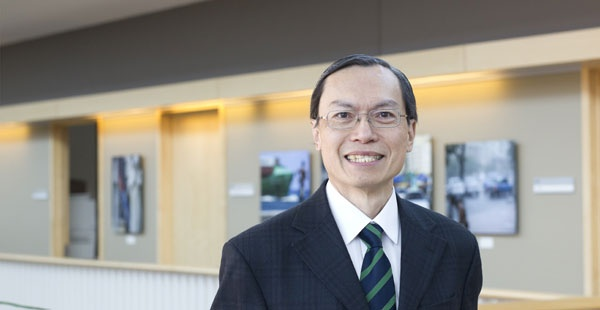
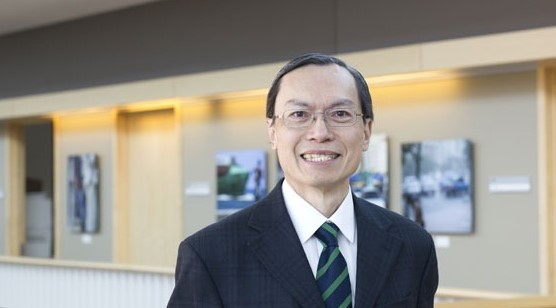
resizing

diff --git a/content/infoPages/our-members.md b/content/infoPages/our-members.md
@@ -2,7 +2,7 @@
 template: DefaultPage
 slug: our-members
 title: Our members
-featuredImage: ../../static/images/our-members-banner.jpg
+featuredImage: '../../static/images/our-members-banner.jpg'
 meta:
   description: our-members
   title: Members
@@ -11,39 +11,39 @@ meta:
 <div class="row">
   <div class="column">
     <div class="card">
-      <img src="../../static/images/ou-dongshu.jpg" alt="dongshu.o" style="width:500px">
+      <img src="../../static/images/ou-dongshu.jpg" alt="dongshu.o" style="height: 200px">
       <div class="container">
         <h2>Prof Dongshu Ou</h2>
         <p class="title">[[ Position ]]</p>
         <p>Research Interests: Economics of Education, Education Policy, Immigration/Migration and Education.</p>
         <!-- <p>dongshu@cuhk.edu.hk</p> -->
-        <a class="button" href="mailto:dongshu@cuhk.edu.hk">Contact</a>
+        <p><a class="button" href="mailto:dongshu@cuhk.edu.hk">Read more</a></p>
       </div>
     </div>
   </div>
 
   <div class="column">
     <div class="card">
-      <img src="../../static/images/wong-stephen.jpg" alt="stephen.w" style="width:500px">
+      <img src="../../static/images/wong-stephen.jpg" alt="stephen.w" style="height:200px">
       <div class="container">
-        <h2>Mike Ross</h2>
+        <h2>Prof Stephen Wong</h2>
         <p class="title">[[ Position ]]</p>
         <p>Some text that describes me lorem ipsum ipsum lorem.</p>
         <!-- <p>example@example.com</p> -->
-        <p><a class="button" href="mailto:dongshu@cuhk.edu.hk">Contact</a></p>
+        <p><a class="button" href="mailto:dongshu@cuhk.edu.hk">Read more</a></p>
       </div>
     </div>
   </div>
   
   <div class="column">
     <div class="card">
-      <img src="../../static/images/wong-kenneth.jpg" alt="kenneth.w" style="width:500px">
+      <img src="../../static/images/wong-kenneth.jpg" alt="kenneth.w" style="height:200px">
       <div class="container">
-        <h2>John Doe</h2>
+        <h2>Prof Kenneth Wong</h2>
         <p class="title">[[ Position ]]</p>
         <p>Some text that describes me lorem ipsum ipsum lorem.</p>
         <!-- <p>example@example.com</p> -->
-        <p><a class="button" href="mailto:dongshu@cuhk.edu.hk">Contact</a></p>
+        <p><a class="button" href="mailto:dongshu@cuhk.edu.hk">Read more</a></p>
       </div>
     </div>
   </div>
